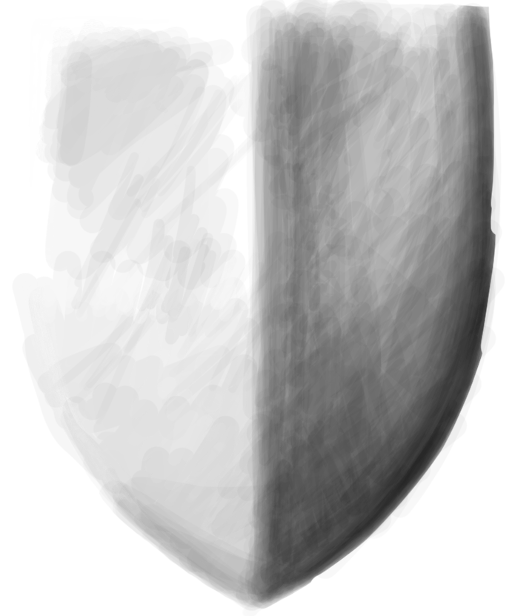
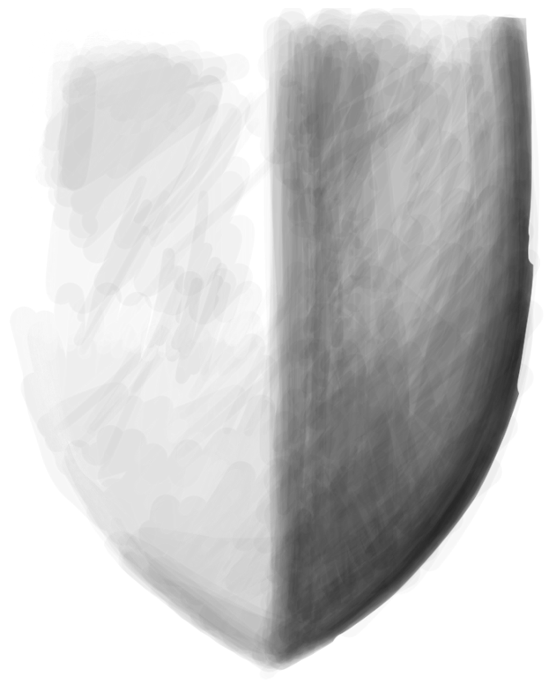
Verschiedene SchildOverlays hinzugefügt

diff --git a/Pferd&Schwert/src/model/CoatOfArmsGenerator.java b/Pferd&Schwert/src/model/CoatOfArmsGenerator.java
@@ -9,57 +9,62 @@ import javax.swing.*;
 import javax.imageio.*;
 
 class CoatOfArmsGenerator {
+	
+	public Random r = new Random();
+	public BufferedImage[] symbols = new BufferedImage[4];
+	public BufferedImage[] schieldOverlays = new BufferedImage[12];
+    private BufferedImage schildschatten = ImageIO.read(new File(".\\Pferd&Schwert\\resources\\images\\SchildS2.png"));
+    private BufferedImage schild = ImageIO.read(new File(".\\Pferd&Schwert\\resources\\images\\Schild2.png"));
     
     public CoatOfArmsGenerator() throws Exception {
     	
-        JFrame f = new JFrame();
-        Random r = new Random();
-        f.setDefaultCloseOperation(JFrame.EXIT_ON_CLOSE);
 
-        BufferedImage[] image = new BufferedImage[4];
-        image[0] = ImageIO.read(new File(".\\Pferd&Schwert\\resources\\images\\Pferd2b.png"));
-        image[1] = ImageIO.read(new File(".\\Pferd&Schwert\\resources\\images\\Stern2b.png"));
-        image[2] = ImageIO.read(new File(".\\Pferd&Schwert\\resources\\images\\Stern1b.png"));
-        image[3] = ImageIO.read(new File(".\\Pferd&Schwert\\resources\\images\\Rad1b.png"));
-        JPanel panel = new JPanel(new GridLayout(2,2));
-        panel.setBackground(Color.DARK_GRAY);
-        panel.add(new JLabel(new ImageIcon(image[0])));
-        panel.add(new JLabel(new ImageIcon(dye(image[r.nextInt(4)], new Color(r.nextInt(256),r.nextInt(256),r.nextInt(256),80)))));
-        panel.add(new JLabel(new ImageIcon(dye(image[r.nextInt(4)], new Color(r.nextInt(256),255,r.nextInt(256),80)))));
-        panel.add(new JLabel(new ImageIcon(dye(image[r.nextInt(4)], new Color(r.nextInt(256),0,r.nextInt(256),100)))));
-        panel.add(new JLabel(new ImageIcon(dye(image[r.nextInt(4)], new Color(r.nextInt(256),r.nextInt(256),r.nextInt(256),100)))));
-        panel.add(new JLabel(new ImageIcon(dye(image[r.nextInt(4)], new Color(r.nextInt(256),255,r.nextInt(256),100)))));
-        f.getContentPane().add(panel);
-        f.pack();
-//        f.setVisible(true);
+        symbols[0] = ImageIO.read(new File(".\\Pferd&Schwert\\resources\\images\\Pferd2b.png"));
+        symbols[1] = ImageIO.read(new File(".\\Pferd&Schwert\\resources\\images\\Stern2b.png"));
+        symbols[2] = ImageIO.read(new File(".\\Pferd&Schwert\\resources\\images\\Stern1b.png"));
+        symbols[3] = ImageIO.read(new File(".\\Pferd&Schwert\\resources\\images\\Rad1b.png"));
         
+        schieldOverlays[0] = ImageIO.read(new File(".\\Pferd&Schwert\\resources\\images\\SchildHalb.png"));
+        schieldOverlays[1] = ImageIO.read(new File(".\\Pferd&Schwert\\resources\\images\\SchildHalb2.png"));
+        schieldOverlays[2] = ImageIO.read(new File(".\\Pferd&Schwert\\resources\\images\\SchildViertel2.png"));
+        schieldOverlays[3] = ImageIO.read(new File(".\\Pferd&Schwert\\resources\\images\\SchildViertel.png"));
+        schieldOverlays[4] = ImageIO.read(new File(".\\Pferd&Schwert\\resources\\images\\SchildHorizont.png"));
+        schieldOverlays[5] = ImageIO.read(new File(".\\Pferd&Schwert\\resources\\images\\SchildHorizont2.png"));
+        schieldOverlays[6] = ImageIO.read(new File(".\\Pferd&Schwert\\resources\\images\\SchildDiagonal.png"));
+        schieldOverlays[7] = ImageIO.read(new File(".\\Pferd&Schwert\\resources\\images\\SchildDiagonal2.png"));
+        schieldOverlays[8] = ImageIO.read(new File(".\\Pferd&Schwert\\resources\\images\\SchildDreieck.png"));
+        schieldOverlays[9] = ImageIO.read(new File(".\\Pferd&Schwert\\resources\\images\\SchildDreieck2.png"));
+        schieldOverlays[10] = ImageIO.read(new File(".\\Pferd&Schwert\\resources\\images\\SchildQuerViertel.png"));
+        schieldOverlays[11] = ImageIO.read(new File(".\\Pferd&Schwert\\resources\\images\\SchildQuerViertel2.png"));
+
         JFrame f2 = new JFrame();
-        BufferedImage image2 = ImageIO.read(new File(".\\Pferd&Schwert\\resources\\images\\Pferd2b.png"));
-        image2 = dye(image2, new Color(r.nextInt(256), r.nextInt(256), r.nextInt(256), 100));
-        BufferedImage image3 = ImageIO.read(new File(".\\Pferd&Schwert\\resources\\images\\Prerd2h.png"));
-        BufferedImage image4 = ImageIO.read(new File(".\\Pferd&Schwert\\resources\\images\\SchildS2.png"));
-        BufferedImage image5 = ImageIO.read(new File(".\\Pferd&Schwert\\resources\\images\\Schild2.png"));
-        BufferedImage image6 = image[r.nextInt(4)];
-        image6 = dye(image6, new Color(r.nextInt(256), r.nextInt(256), r.nextInt(256), 100));
-        
-        image5 = dye(image5, new Color(r.nextInt(256), r.nextInt(256), r.nextInt(256), 255));
-        BufferedImage combined = new BufferedImage(image4.getWidth(), image4.getHeight(), BufferedImage.TYPE_INT_ARGB);
-        
-        Graphics g = combined.getGraphics();
-        g.drawImage(image5, 0, 0, null);
-        g.drawImage(image6, 120, 120, null);
-//        g.drawImage(image3, 120, 120, null);
-        g.drawImage(image4, 0, 0, null);
-        
         JPanel panel2 = new JPanel(new GridLayout(1,0));
         panel2.setBackground(Color.DARK_GRAY);
-        panel2.add(new JLabel(new ImageIcon(combined)));
+        panel2.add(new JLabel(new ImageIcon(GenerateCoatOfArms())));
 //        panel2.add(new JLabel(new ImageIcon(image4)));
         f2.getContentPane().add(panel2);
         f2.pack();
-        f2.setVisible(true);
+        f2.setVisible(true);       
         
+    }
+    
+    public BufferedImage GenerateCoatOfArms() throws IOException{
+        BufferedImage wappen = symbols[r.nextInt(4)];
+        BufferedImage schildOverlay = schieldOverlays[r.nextInt(12)];
+        wappen = dye(wappen, new Color(r.nextInt(256), r.nextInt(256), r.nextInt(256), 120));
         
+        schild = dye(schild, new Color(r.nextInt(256), r.nextInt(256), r.nextInt(256), 255));
+        schildOverlay = dye(schildOverlay, new Color(r.nextInt(256), r.nextInt(256), r.nextInt(256), 255));
+        BufferedImage combined = new BufferedImage(schildschatten.getWidth(), schildschatten.getHeight(), BufferedImage.TYPE_INT_ARGB);
+        
+        Graphics g = combined.getGraphics();
+        g.drawImage(schild, 0, 0, null);
+        g.drawImage(schildOverlay, 0, 0, null);
+        g.drawImage(wappen, 145, 145, null);
+//        g.drawImage(image3, 120, 120, null);
+        g.drawImage(schildschatten, 0, 0, null);
+        
+		return combined;
     }
 
 
